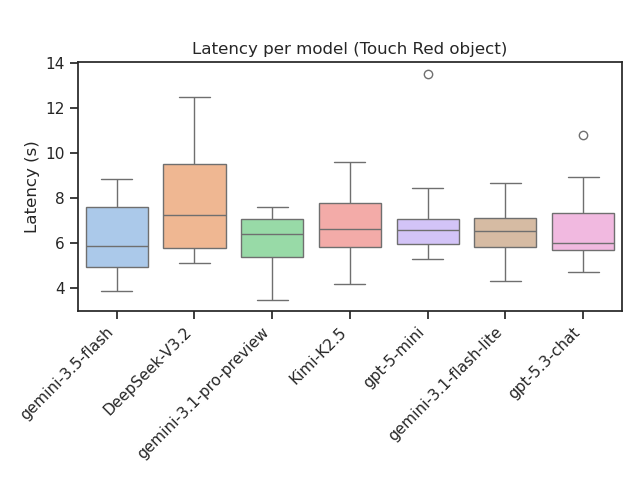
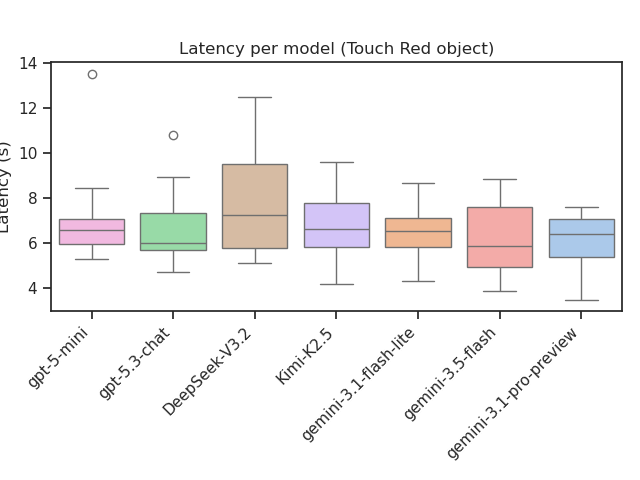
quick save

diff --git a/report/functions/boxplot.py b/report/functions/boxplot.py
@@ -11,7 +11,7 @@ path = ""
 INDEX_MODEL = 0
 INDEX_TASK = 1
 
-if sys.argv[1]:
+if len(sys.argv) >= 2:
     path = sys.argv[1]
 else:
     path = "benchmark/"
@@ -30,6 +30,9 @@ def get_latencies_in_file(file: Path) -> list:
 files = Path(path).rglob("*.jsonl")
 latencies_by_model = {}
 latencies_by_task_by_model = {}
+order = ["gpt-5-mini", "gpt-5.3-chat", "DeepSeek-V3.2", "Kimi-K2.5",
+         "gemini-3.1-flash-lite", "gemini-3.5-flash", "gemini-3.1-pro-preview"]
+
 for file in files:
     parts = file.parts[1:] if file.parts[0] == "benchmark" else file.parts
     model = parts[INDEX_MODEL]
@@ -42,7 +45,7 @@ for file in files:
     else:
         by_task = latencies_by_task_by_model[task]
         # Make sure we don't have duplicates
-        assert model not in by_task
+        assert model not in by_task, f"Found multiple entries for model {model}. Expected one."
         by_task[model] = latencies
 
     if model not in latencies_by_model:
@@ -77,7 +80,7 @@ for task in tasks:
     task_name = " ".join(task.split("_"))
 
     plt.title(f"Latency per model ({task_name})")
-    sns.boxplot(data=latencies_by_task_by_model[task])
+    sns.boxplot(data=latencies_by_task_by_model[task], order=order)
     plt.xticks(rotation=45, ha='right')
     plt.tight_layout(rect=[0, 0, 1, 0.95])
     plt.ylabel("Latency (s)")
